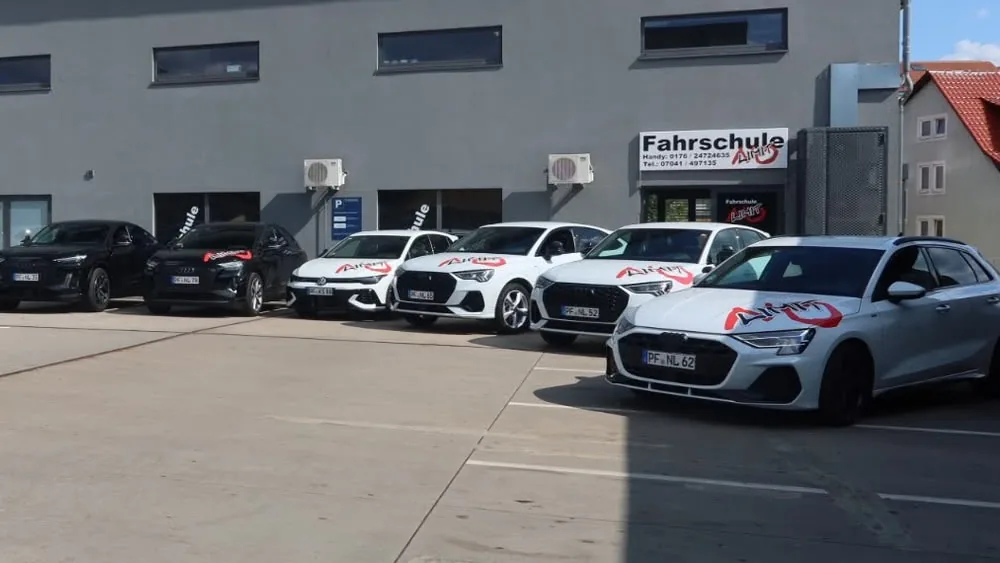
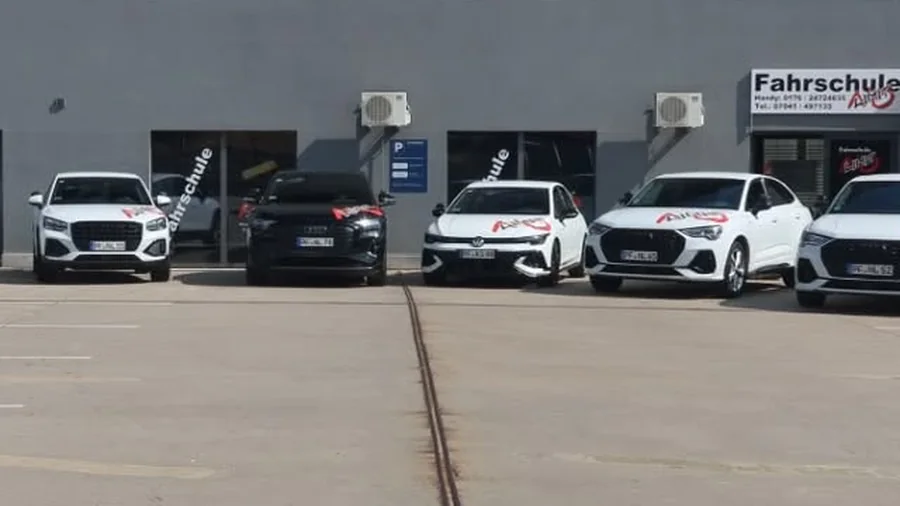
Merge fleet into the licence section; rebuild class cards
The two sections covered the same ground, so the fleet block and its video
gallery now live inside the licence section. #flotte stays as an anchor on
the inner block, so the nav and footer links still work.

The class tiles were photo-only, which read as flat. They are now content
cards: photo, title, the class codes they contain as chips (PKW -> B,
B197, BE), a short line, and the details affordance. The category button
row below them is gone — it repeated the same three categories the cards
already show.

The PKW class photo was a different file from the fleet hero but looked
almost identical — both angled shots of the white row against the grey
building. Swapped for a straight-on crop with the black and white cars
mixed, so the two sections no longer echo each other.

Header is left-aligned and the section is dark throughout, matching the
fleet block it now contains.

diff --git a/src/components/VehicleShowcase.tsx b/src/components/VehicleShowcase.tsx
@@ -3,6 +3,7 @@ import { motion, useInView, useScroll, useTransform, useReducedMotion, AnimatePr
 import { X, ChevronRight, ChevronLeft, BookOpen, Car, Clock, Users, Award } from 'lucide-react';
 import { useModalA11y } from '../hooks/useModalA11y';
 import { categories, getClass, type CategoryInfo, type LicenseClass } from '../data/licenseClasses';
+import Fleet from './Fleet';
 
 /* ─────────────────────────────────────────────────────────────
    Klassen-Detail-Karte (innerhalb des Sheets)
@@ -294,7 +295,7 @@ function CategorySheet({
 }
 
 /* ─────────────────────────────────────────────────────────────
-   Showcase-Sektion (Bild mit Hotspots + Kategorie-Buttons)
+   Showcase-Sektion (Klassen-Karten + Fahrzeug-Block)
    ───────────────────────────────────────────────────────────── */
 export default function VehicleShowcase() {
   const ref = useRef(null);
@@ -370,7 +371,7 @@ export default function VehicleShowcase() {
 
       <section
         id="fuehrerscheine"
-        className="py-16 md:py-32 bg-white dark:bg-ink relative overflow-hidden transition-colors duration-300"
+        className="py-16 md:py-32 bg-ink relative overflow-hidden"
         ref={ref}
       >
         {/* Subtile diagonale Akzent-Layer */}
@@ -381,25 +382,26 @@ export default function VehicleShowcase() {
 
         <div className="relative max-w-7xl mx-auto px-5 sm:px-6 lg:px-8">
           <motion.div
-            className="text-center mb-12"
+            className="mb-10 md:mb-14 max-w-2xl"
             initial={{ opacity: 0, y: 40 }}
             animate={inView ? { opacity: 1, y: 0 } : {}}
             transition={{ duration: 0.7 }}
           >
-            <div className="flex items-center justify-center gap-3 mb-5">
+            <div className="flex items-center gap-3 mb-6">
               <div className="h-px w-8 bg-brand" />
               <span className="text-brand text-xs font-bold uppercase tracking-[0.3em]">Führerscheine</span>
-              <div className="h-px w-8 bg-brand" />
             </div>
-            <h2 className="text-[clamp(1.8rem,4vw,3rem)] font-black text-fg-primary dark:text-white leading-tight tracking-tight mb-3">
-              Welchen Führerschein willst du machen?
+            <h2 className="text-[clamp(2rem,5vw,3.5rem)] font-black text-white leading-[1.05] tracking-tight mb-4">
+              Welchen Führerschein
+              <span className="text-brand"> willst du machen?</span>
             </h2>
-            <p className="text-fg-secondary dark:text-gray-300 text-base max-w-md mx-auto">
-              Wähle deine Fahrzeugklasse und entdecke alle Details — von Mindestalter bis Pflichtstunden.
+            <p className="text-white/60 text-base md:text-lg leading-relaxed">
+              Drei Wege, zwölf Klassen — von der Mofa-Bescheinigung bis zum Sattelzug.
+              Tippe auf eine Karte für Mindestalter, Pflichtstunden und Details.
             </p>
           </motion.div>
 
-          {/* Klassen-Karussell — ein echtes Foto je Fahrzeugklasse, wischbar */}
+          {/* Klassen-Karten â ein echtes Foto plus die enthaltenen Klassen */}
           <motion.div
             ref={imageRef}
             initial={{ opacity: 0 }}
@@ -414,7 +416,7 @@ export default function VehicleShowcase() {
               aria-label="Fahrzeugklassen — Pfeiltasten zum Wechseln"
               tabIndex={0}
               onKeyDown={handleTrackKeyDown}
-              className="no-scrollbar flex gap-4 overflow-x-auto snap-x snap-mandatory -mx-5 px-5 sm:mx-0 sm:px-0 pb-2 focus:outline-none focus-visible:ring-2 focus-visible:ring-brand focus-visible:ring-offset-2 focus-visible:ring-offset-white dark:focus-visible:ring-offset-ink rounded-sm"
+              className="no-scrollbar flex gap-4 overflow-x-auto snap-x snap-mandatory -mx-5 px-5 sm:mx-0 sm:px-0 pb-2 focus:outline-none focus-visible:ring-2 focus-visible:ring-brand focus-visible:ring-offset-2 focus-visible:ring-offset-ink rounded-sm"
             >
               {categories.map((cat) => (
                 <button
@@ -422,36 +424,49 @@ export default function VehicleShowcase() {
                   data-slide
                   onClick={() => setActiveCat(cat)}
                   aria-label={`Führerscheinklassen für ${cat.label} anzeigen`}
-                  className="group relative snap-start shrink-0 w-[86%] sm:w-[calc(50%-0.5rem)] lg:w-[calc(40%-0.6rem)] aspect-[16/9] overflow-hidden rounded-sm border border-black/8 dark:border-white/10 text-left"
+                  className="group flex flex-col text-left snap-start shrink-0 w-[82%] sm:w-[calc(50%-0.5rem)] lg:w-[calc(33.333%-0.667rem)] rounded-sm overflow-hidden bg-ink-surface border border-white/10 hover:border-brand/60 transition-colors duration-200"
                 >
-                  <img
-                    src={cat.image}
-                    alt={`${cat.label} der Fahrschule NoLimit`}
-                    loading="lazy"
-                    decoding="async"
-                    className="absolute inset-0 w-full h-full object-cover transition-transform duration-500 group-hover:scale-[1.04]"
-                    draggable={false}
-                  />
-                  <div className="absolute inset-0 bg-gradient-to-t from-black/85 via-black/25 to-transparent" />
+                  <div className="relative aspect-[16/9] overflow-hidden">
+                    <img
+                      src={cat.image}
+                      alt={`${cat.label} der Fahrschule NoLimit`}
+                      loading="lazy"
+                      decoding="async"
+                      className="absolute inset-0 w-full h-full object-cover transition-transform duration-500 group-hover:scale-[1.05]"
+                      draggable={false}
+                    />
+                    <div className="absolute inset-0 bg-gradient-to-t from-ink-surface via-ink-surface/10 to-transparent" />
+                    {cat.badge && (
+                      <span className="absolute top-3 left-3 bg-brand text-white text-[10px] font-black uppercase tracking-[0.14em] px-2.5 py-1 rounded-full">
+                        {cat.badge}
+                      </span>
+                    )}
+                  </div>
 
-                  {cat.badge && (
-                    <span className="absolute top-3 left-3 bg-brand text-white text-[10px] font-black uppercase tracking-[0.14em] px-2.5 py-1 rounded-full">
-                      {cat.badge}
-                    </span>
-                  )}
-
-                  <div className="absolute inset-x-0 bottom-0 p-4 sm:p-5 flex items-end justify-between gap-3">
-                    <div>
-                      <div className="flex items-center gap-2">
-                        <span className="text-lg">{cat.icon}</span>
-                        <h3 className="text-white font-black text-lg sm:text-xl tracking-tight">{cat.label}</h3>
-                      </div>
-                      <p className="text-white/70 text-xs mt-1">
-                        {cat.classIds.length} {cat.classIds.length === 1 ? 'Klasse' : 'Klassen'}
-                      </p>
+                  <div className="flex flex-col gap-3 p-5 flex-1">
+                    <div className="flex items-center gap-2.5">
+                      <span className="text-xl" aria-hidden="true">{cat.icon}</span>
+                      <h3 className="text-white font-black text-lg md:text-xl tracking-tight">{cat.label}</h3>
                     </div>
-                    <span className="flex items-center gap-1 text-white text-xs font-bold uppercase tracking-wider shrink-0">
-                      Details
+
+                    <div className="flex flex-wrap gap-1.5">
+                      {cat.classIds.map((id) => {
+                        const cls = getClass(id);
+                        return cls ? (
+                          <span
+                            key={id}
+                            className="text-[11px] font-bold tracking-wider text-white/75 bg-white/8 border border-white/10 rounded-sm px-2 py-0.5"
+                          >
+                            {cls.name}
+                          </span>
+                        ) : null;
+                      })}
+                    </div>
+
+                    <p className="text-white/55 text-sm leading-relaxed flex-1">{cat.intro}</p>
+
+                    <span className="flex items-center gap-1 text-brand text-xs font-black uppercase tracking-wider mt-auto">
+                      Alle Details
                       <ChevronRight size={14} className="group-hover:translate-x-0.5 transition-transform" />
                     </span>
                   </div>
@@ -459,12 +474,12 @@ export default function VehicleShowcase() {
               ))}
             </div>
 
-            {/* Wisch-Hinweis + Punkte */}
-            <div className="flex items-center justify-between gap-3 mt-3">
-              <span className="text-fg-subtle dark:text-white/55 text-xs uppercase tracking-[0.2em]" aria-hidden="true">
+            {/* Wisch-Hinweis + Punkte — nur wenn es wirklich etwas zu scrollen gibt */}
+            <div className={`flex items-center justify-between gap-3 mt-3 ${lastIdx === 0 ? 'hidden' : ''}`}>
+              <span className="text-white/55 text-xs uppercase tracking-[0.2em]" aria-hidden="true">
                 ← Wischen für mehr
               </span>
-              <div className={`flex gap-2 ${lastIdx === 0 ? 'hidden' : ''}`} role="tablist" aria-label="Fahrzeugklasse wählen">
+              <div className="flex gap-2" role="tablist" aria-label="Fahrzeugklasse wählen">
                 {Array.from({ length: lastIdx + 1 }, (_, i) => (
                   <button
                     key={i}
@@ -473,36 +488,17 @@ export default function VehicleShowcase() {
                     aria-selected={i === activeIdx}
                     onClick={() => scrollToSlide(i)}
                     className={`h-2 rounded-full transition-all duration-200 ${
-                      i === activeIdx
-                        ? 'w-6 bg-brand'
-                        : 'w-2 bg-black/15 dark:bg-white/20 hover:bg-black/30 dark:hover:bg-white/40'
+                      i === activeIdx ? 'w-6 bg-brand' : 'w-2 bg-white/20 hover:bg-white/40'
                     }`}
                   />
                 ))}
               </div>
             </div>
           </motion.div>
-
-          {/* Kategorie-Buttons (alternative zum Bild-Klick) */}
-          <motion.div
-            className="grid grid-cols-2 lg:grid-cols-4 gap-3 mt-6"
-            initial={{ opacity: 0 }}
-            animate={inView ? { opacity: 1 } : {}}
-            transition={{ duration: 0.6, delay: 0.5 }}
-          >
-            {categories.map((cat) => (
-              <button
-                key={cat.id}
-                onClick={() => setActiveCat(cat)}
-                className="flex items-center justify-center gap-2.5 bg-transparent border border-brand hover:bg-brand text-fg-primary dark:text-white hover:text-white px-5 py-3.5 rounded-sm transition-[background-color,color,transform] duration-150 ease-out active:scale-[0.97] text-sm font-bold group"
-              >
-                <span className="text-base">{cat.icon}</span>
-                <span>{cat.label}</span>
-                <ChevronRight size={14} className="opacity-60 group-hover:opacity-100 group-hover:translate-x-0.5 transition-[opacity,transform]" />
-              </button>
-            ))}
-          </motion.div>
         </div>
+
+        {/* Fahrzeug-Block + Video-Galerie — gleiche Sektion, eigener Anker */}
+        <Fleet />
       </section>
     </>
   );

diff --git a/src/components/Fleet.tsx b/src/components/Fleet.tsx
@@ -61,7 +61,7 @@ export default function Fleet() {
   const inView = useInView(ref, { once: true, margin: '-80px' });
 
   return (
-    <section id="flotte" className="py-16 md:py-32 bg-ink relative overflow-hidden">
+    <div id="flotte" className="relative scroll-mt-24 mt-20 md:mt-28 pt-14 md:pt-20 border-t border-white/10">
       <div className="absolute right-0 top-0 w-[40rem] h-[40rem] rounded-full bg-brand/5 blur-3xl pointer-events-none -translate-y-1/3 translate-x-1/4" />
 
       <div className="max-w-7xl mx-auto px-5 sm:px-6 lg:px-8" ref={ref}>
@@ -150,6 +150,6 @@ export default function Fleet() {
         {/* Video-Galerie — gehört inhaltlich zur Flotte, daher dieselbe Sektion */}
         <VideoGallery inView={inView} />
       </div>
-    </section>
+    </div>
   );
 }

diff --git a/src/App.tsx b/src/App.tsx
@@ -2,7 +2,6 @@ import Navigation from './components/Navigation';
 import Hero from './components/Hero';
 import Reviews from './components/Reviews';
 import VehicleShowcase from './components/VehicleShowcase';
-import Fleet from './components/Fleet';
 import About from './components/About';
 import Process from './components/Process';
 import Seminars from './components/Seminars';
@@ -26,7 +25,6 @@ export default function App() {
 
         {/* „Was bekomme ich?" */}
         <VehicleShowcase />
-        <Fleet />
 
         {/* „Wer macht das?" — Story + Stats + Team in einer Sektion */}
         <About />
